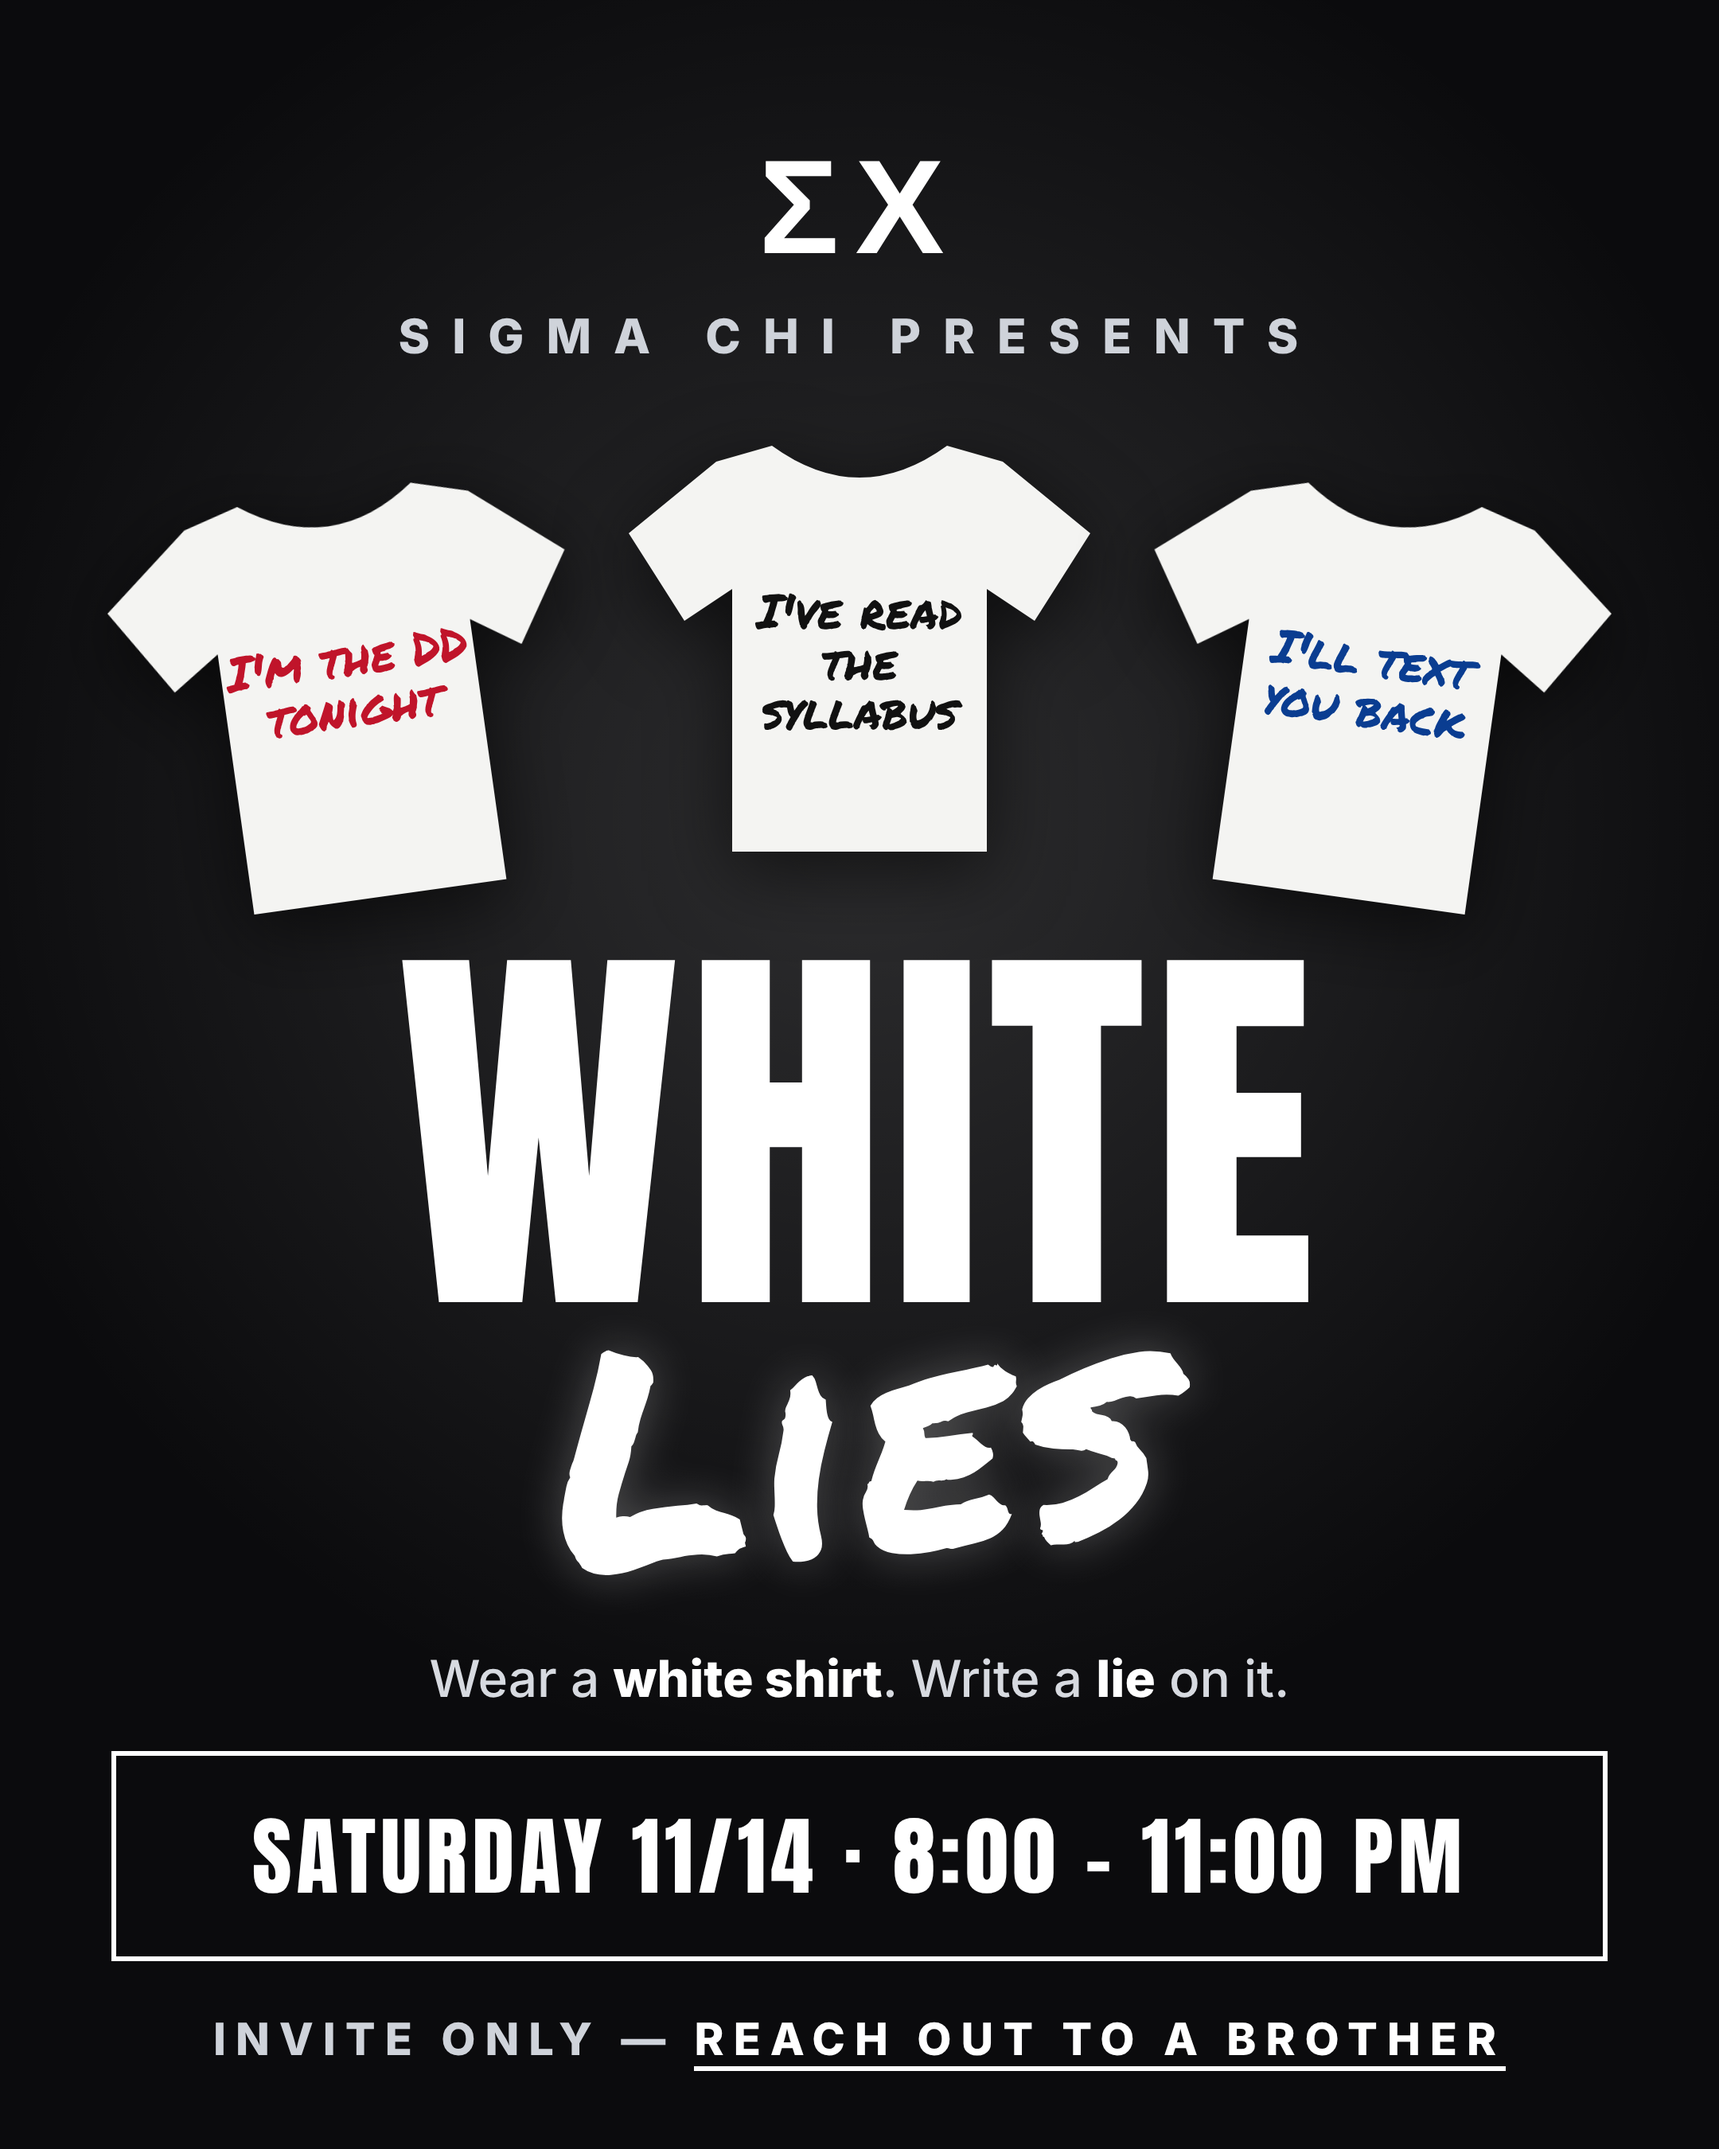
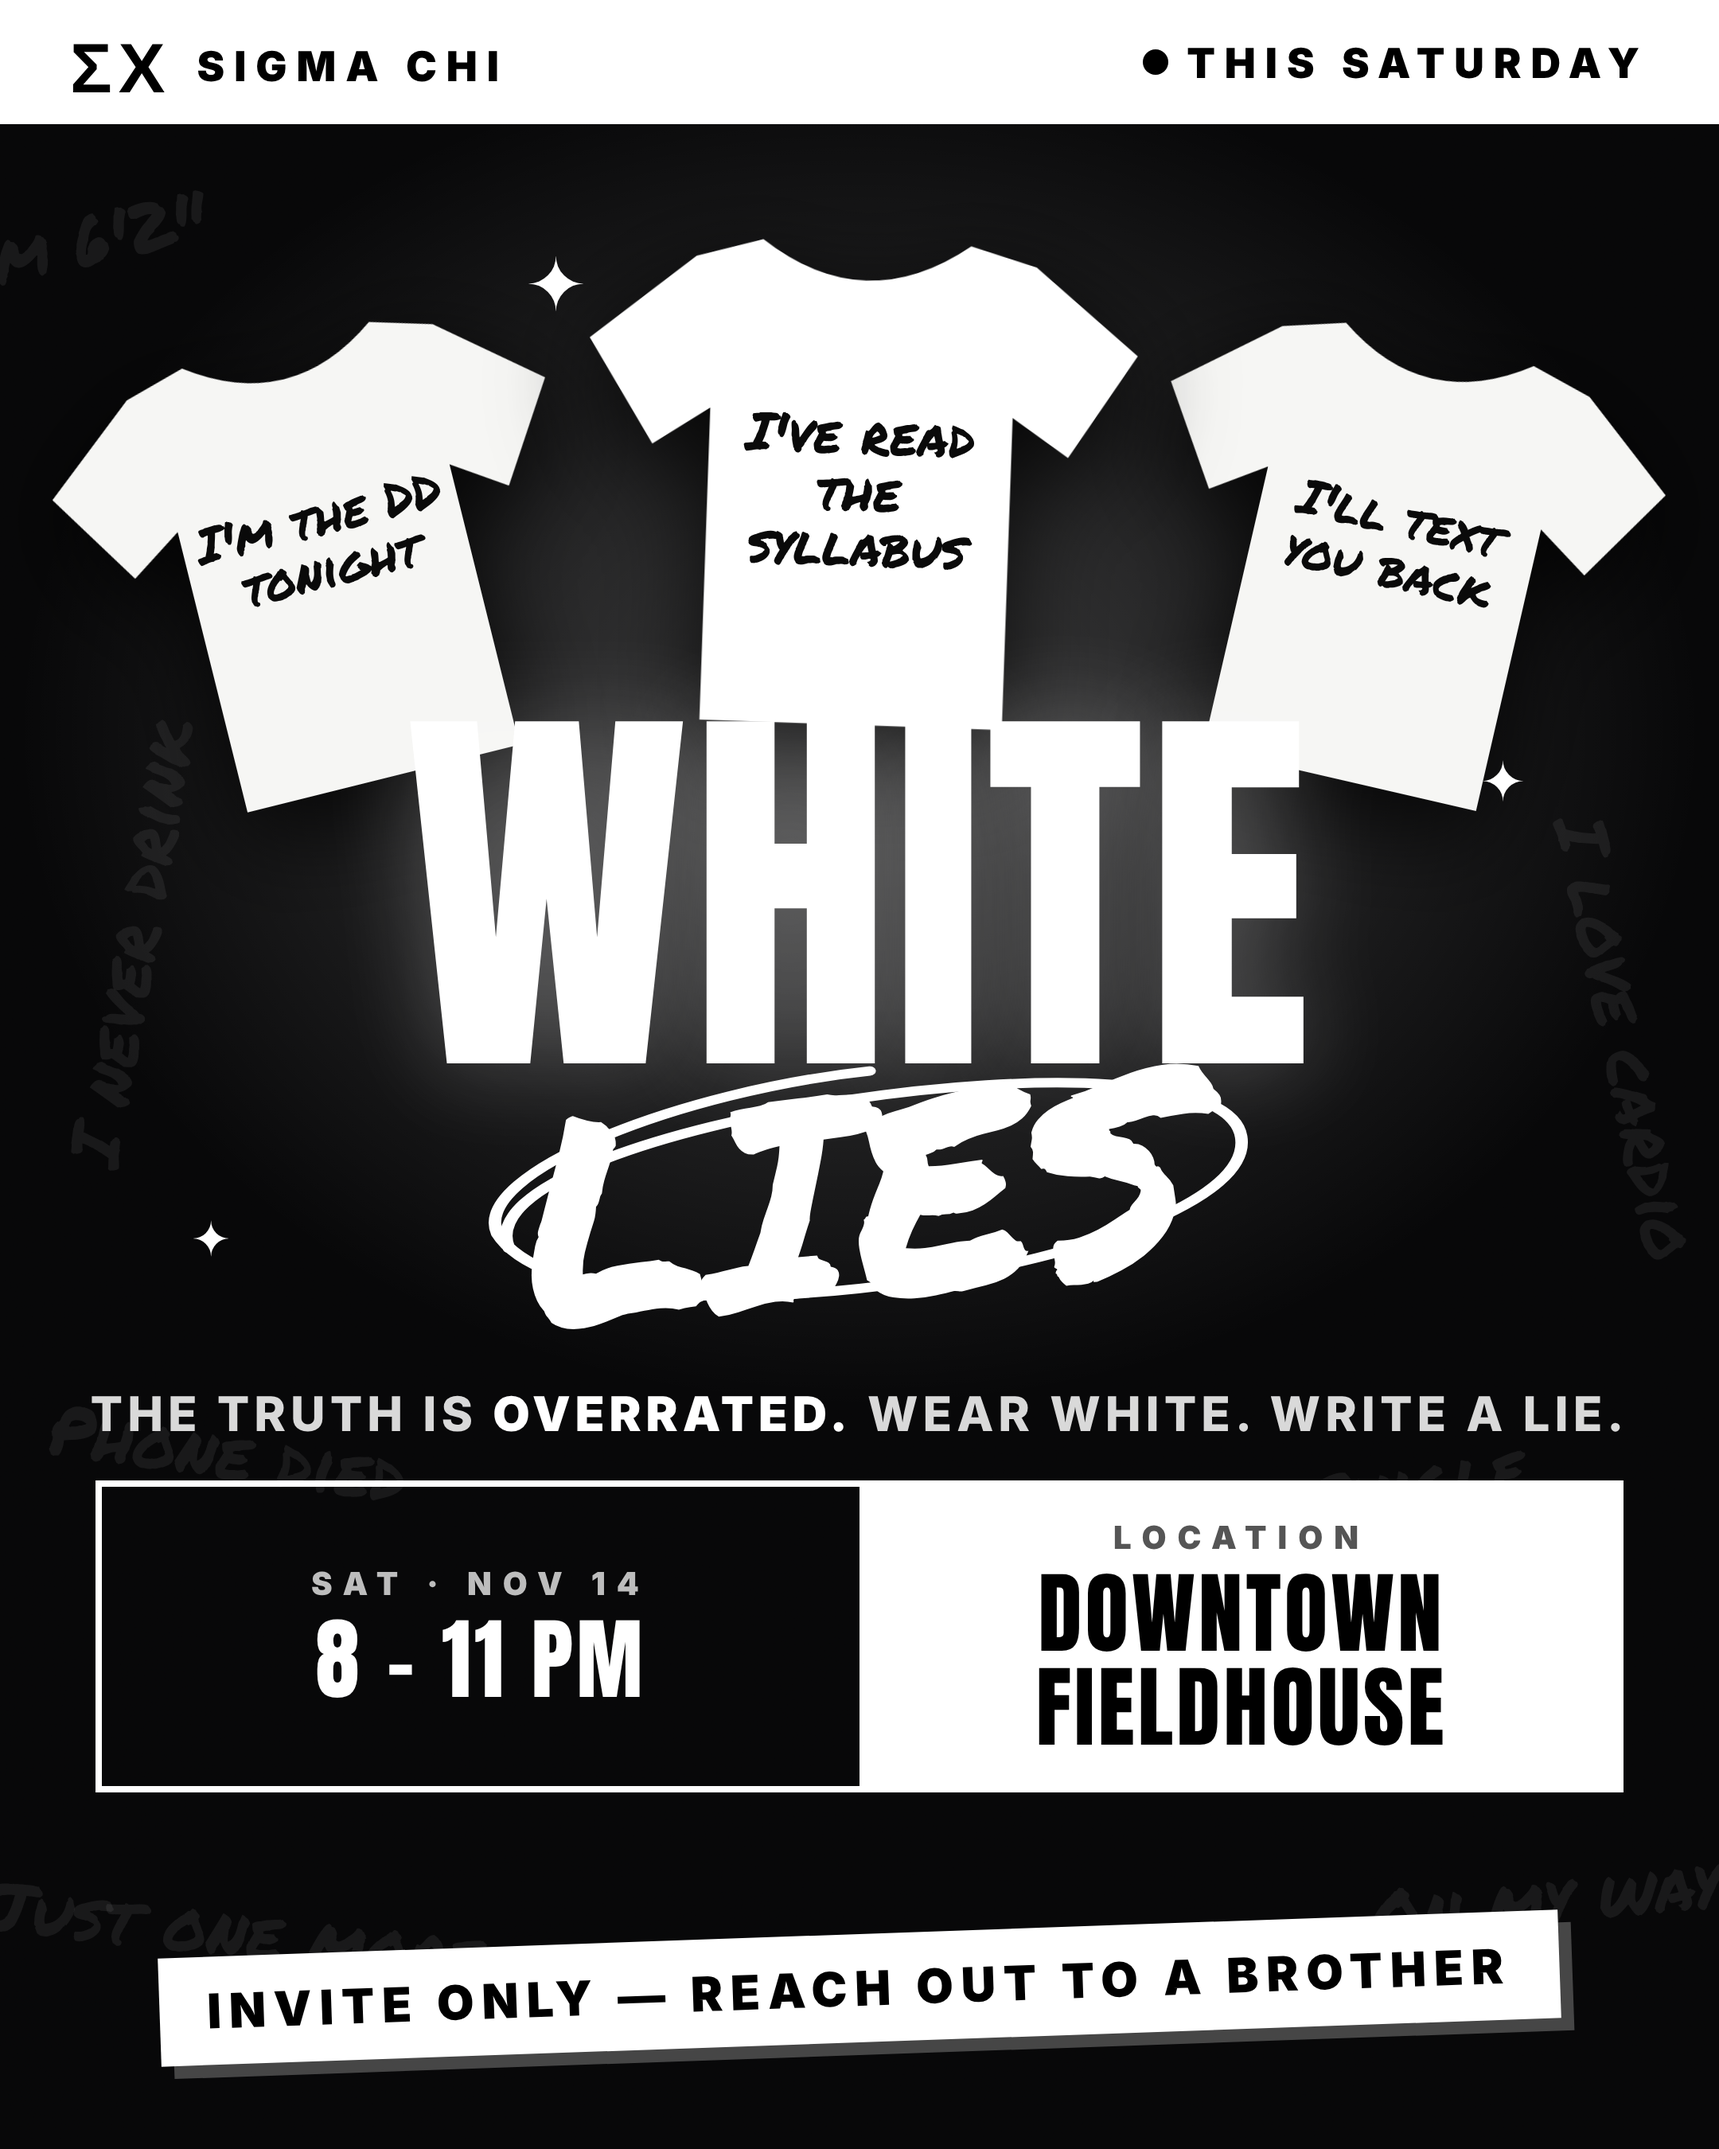
White Lies post: add Downtown FieldHouse location, bolder layout
Claude-Session: https://claude.ai/code/session_017HSKiNMxcjc7LJ3XqkuRRY

diff --git a/white-lies-post/post.html b/white-lies-post/post.html
@@ -1,34 +1,70 @@
 <!doctype html><html><head><meta charset="utf-8">
-<link href="https://fonts.googleapis.com/css2?family=Anton&family=Permanent+Marker&family=Inter:wght@500;800&display=swap" rel="stylesheet">
+<link href="https://fonts.googleapis.com/css2?family=Anton&family=Permanent+Marker&family=Inter:wght@500;800;900&display=swap" rel="stylesheet">
 <style>
 *{margin:0;padding:0;box-sizing:border-box}
-body{width:1080px;height:1350px;background:#0b0b0d;color:#fff;font-family:Inter,Arial,sans-serif;overflow:hidden;position:relative}
-.glow{position:absolute;inset:0;background:radial-gradient(circle at 50% 38%,rgba(255,255,255,.14),transparent 60%)}
-.top{position:absolute;top:60px;width:100%;text-align:center;letter-spacing:14px;font-weight:800;font-size:30px;color:#cfd3da}
-.top .greek{display:block;font-family:Anton,Impact,sans-serif;font-size:84px;letter-spacing:10px;color:#fff;margin-bottom:6px}
-.shirts{position:absolute;top:250px;width:100%;display:flex;justify-content:center;gap:24px}
-.shirt{position:relative;width:300px;height:300px}
-.shirt svg{width:100%;height:100%;filter:drop-shadow(0 12px 24px rgba(0,0,0,.6))}
-.shirt span{position:absolute;top:118px;left:60px;right:60px;text-align:center;font-family:'Permanent Marker',cursive;color:#111;font-size:30px;line-height:1.05}
-.s1{transform:rotate(-8deg) translateY(30px)}.s3{transform:rotate(8deg) translateY(30px)}
-.s1 span{color:#c0142a}.s3 span{color:#0a3d91}
-.title{position:absolute;top:600px;width:100%;text-align:center;font-family:Anton,Impact,sans-serif;font-size:250px;line-height:.9;letter-spacing:4px}
-.title .lies{display:block;font-family:'Permanent Marker',cursive;font-size:190px;color:#fff;transform:rotate(-4deg);margin-top:-10px;text-shadow:0 0 30px rgba(255,255,255,.25)}
-.rule{position:absolute;top:1035px;left:50%;transform:translateX(-50%);font-size:32px;font-weight:500;color:#d7dae0;text-align:center;width:900px}
-.rule b{color:#fff}
-.date{position:absolute;top:1100px;left:70px;right:70px;border:3px solid #fff;padding:22px 0;text-align:center;font-family:Anton,Impact,sans-serif;font-size:54px;letter-spacing:3px;white-space:nowrap}
-.invite{position:absolute;bottom:52px;width:100%;text-align:center;font-weight:800;font-size:28px;letter-spacing:6px;color:#cfd3da}
-.invite em{font-style:normal;color:#fff;border-bottom:3px solid #fff}
+body{width:1080px;height:1350px;background:#070708;color:#fff;font-family:Inter,Arial,sans-serif;overflow:hidden;position:relative}
+.spot{position:absolute;inset:0;background:radial-gradient(ellipse 70% 45% at 50% 34%,rgba(255,255,255,.22),transparent 70%)}
+.grain{position:absolute;inset:0;opacity:.18;mix-blend-mode:overlay}
+.bg-lies{position:absolute;inset:0;font-family:'Permanent Marker',cursive;color:rgba(255,255,255,.07);font-size:44px}
+.bg-lies span{position:absolute;white-space:nowrap}
+.bar{position:absolute;top:0;left:0;right:0;height:78px;background:#fff;color:#000;display:flex;align-items:center;justify-content:space-between;padding:0 44px;font-weight:900;font-size:26px;letter-spacing:6px}
+.bar .gk{font-family:Anton,Impact,sans-serif;font-size:44px;letter-spacing:4px}
+.bar .gk small{font-family:Inter,sans-serif;font-weight:900;font-size:26px;letter-spacing:6px;margin-left:16px;vertical-align:middle}
+.bar .live{display:flex;align-items:center;gap:12px}
+.bar .dot{width:16px;height:16px;border-radius:50%;background:#000}
+.shirts{position:absolute;top:130px;left:0;right:0;height:380px}
+.shirt{position:absolute;width:330px;height:330px}
+.shirt svg{width:100%;height:100%;filter:drop-shadow(0 18px 30px rgba(0,0,0,.8))}
+.shirt span{position:absolute;top:128px;left:72px;right:72px;text-align:center;font-family:'Permanent Marker',cursive;color:#0a0a0a;font-size:31px;line-height:1.05}
+.s1{left:40px;top:50px;transform:rotate(-14deg)}
+.s2{left:375px;top:0;transform:rotate(2deg) scale(1.08)}
+.s3{left:710px;top:50px;transform:rotate(13deg)}
+.title{position:absolute;top:455px;left:0;right:0;text-align:center}
+.white{font-family:Anton,Impact,sans-serif;font-size:250px;line-height:.86;letter-spacing:2px;text-shadow:0 0 60px rgba(255,255,255,.25)}
+.lies{position:relative;display:inline-block;font-family:'Permanent Marker',cursive;font-size:180px;line-height:1;transform:rotate(-5deg);margin-top:-14px}
+.lies svg{position:absolute;left:-50px;top:-10px;width:calc(100% + 100px);height:110%;overflow:visible}
+.tag{position:absolute;top:870px;left:0;right:0;text-align:center;font-weight:800;font-size:30px;letter-spacing:3px;color:#d9d9d9}
+.tag b{color:#fff;font-weight:900}
+.info{position:absolute;top:930px;left:60px;right:60px;display:grid;grid-template-columns:1fr 1fr;border:4px solid #fff}
+.info>div{padding:20px 22px;text-align:center;display:flex;flex-direction:column;justify-content:center}
+.info>div+div{border-left:4px solid #fff}
+.info .k{font-size:20px;font-weight:900;letter-spacing:7px;color:#bdbdbd;margin-bottom:6px}
+.info .v{font-family:Anton,Impact,sans-serif;font-size:56px;line-height:1.05;letter-spacing:2px}
+.info .loc{background:#fff;color:#000}
+.info .loc .k{color:#555}
+.invite{position:absolute;top:1215px;left:0;right:0;text-align:center}
+.invite .t{display:inline-block;background:#fff;color:#000;font-weight:900;font-size:30px;letter-spacing:5px;padding:16px 30px;transform:rotate(-2deg);box-shadow:8px 8px 0 rgba(255,255,255,.25)}
+.invite .s{margin-top:18px;font-size:20px;font-weight:800;letter-spacing:8px;color:#9a9a9a}
+.star{position:absolute;color:#fff;font-size:46px}
 </style></head><body>
-<div class="glow"></div>
-<div class="top"><span class="greek">ΣΧ</span>SIGMA CHI PRESENTS</div>
-<div class="shirts">
- <div class="shirt s1"><svg viewBox="0 0 300 300"><path d="M95 30 L60 40 L5 85 L40 140 L70 120 L70 285 L230 285 L230 120 L260 140 L295 85 L240 40 L205 30 Q150 70 95 30Z" fill="#f4f4f2"/></svg><span>I'm the DD tonight</span></div>
- <div class="shirt s2"><svg viewBox="0 0 300 300"><path d="M95 30 L60 40 L5 85 L40 140 L70 120 L70 285 L230 285 L230 120 L260 140 L295 85 L240 40 L205 30 Q150 70 95 30Z" fill="#f4f4f2"/></svg><span>I've read the syllabus</span></div>
- <div class="shirt s3"><svg viewBox="0 0 300 300"><path d="M95 30 L60 40 L5 85 L40 140 L70 120 L70 285 L230 285 L230 120 L260 140 L295 85 L240 40 L205 30 Q150 70 95 30Z" fill="#f4f4f2"/></svg><span>I'll text you back</span></div>
+<svg class="grain" width="1080" height="1350"><filter id="n"><feTurbulence type="fractalNoise" baseFrequency=".9" numOctaves="3" stitchTiles="stitch"/></filter><rect width="100%" height="100%" filter="url(#n)"/></svg>
+<div class="bg-lies">
+ <span style="top:120px;left:-40px;transform:rotate(-12deg)">I'm 6'2"</span>
+ <span style="top:560px;left:-60px;transform:rotate(-80deg)">I never drink</span>
+ <span style="top:620px;left:880px;transform:rotate(78deg)">I love cardio</span>
+ <span style="top:900px;left:820px;transform:rotate(-10deg)">Single</span>
+ <span style="top:880px;left:30px;transform:rotate(8deg)">Phone died</span>
+ <span style="top:1160px;left:860px;transform:rotate(-6deg)">On my way</span>
+ <span style="top:1180px;left:-10px;transform:rotate(6deg)">Just one more</span>
 </div>
-<div class="title">WHITE<span class="lies">Lies</span></div>
-<div class="rule">Wear a <b>white shirt</b>. Write a <b>lie</b> on it.</div>
-<div class="date">SATURDAY 11/14 · 8:00 – 11:00 PM</div>
-<div class="invite">INVITE ONLY — <em>REACH OUT TO A BROTHER</em></div>
+<div class="spot"></div>
+<div class="bar"><div class="gk">ΣΧ<small>SIGMA CHI</small></div><div class="live"><span class="dot"></span>THIS SATURDAY</div></div>
+<div class="shirts">
+ <div class="shirt s1"><svg viewBox="0 0 300 300"><path d="M95 30 L60 40 L5 85 L40 140 L70 120 L70 285 L230 285 L230 120 L260 140 L295 85 L240 40 L205 30 Q150 70 95 30Z" fill="#f6f6f4"/></svg><span>I'm the DD tonight</span></div>
+ <div class="shirt s3"><svg viewBox="0 0 300 300"><path d="M95 30 L60 40 L5 85 L40 140 L70 120 L70 285 L230 285 L230 120 L260 140 L295 85 L240 40 L205 30 Q150 70 95 30Z" fill="#f6f6f4"/></svg><span>I'll text you back</span></div>
+ <div class="shirt s2"><svg viewBox="0 0 300 300"><path d="M95 30 L60 40 L5 85 L40 140 L70 120 L70 285 L230 285 L230 120 L260 140 L295 85 L240 40 L205 30 Q150 70 95 30Z" fill="#fff"/></svg><span>I've read the syllabus</span></div>
+</div>
+<span class="star" style="top:150px;left:330px">✦</span>
+<span class="star" style="top:470px;left:930px;font-size:34px">✦</span>
+<span class="star" style="top:760px;left:120px;font-size:30px">✦</span>
+<div class="title">
+ <div class="white">WHITE</div>
+ <div class="lies">LIES<svg viewBox="0 0 400 200" preserveAspectRatio="none"><path d="M30 120 C 10 40, 380 10, 385 90 C 390 170, 60 200, 25 110 C 15 70, 120 30, 210 28" fill="none" stroke="#fff" stroke-width="6" stroke-linecap="round"/></svg></div>
+</div>
+<div class="tag">THE TRUTH IS <b>OVERRATED.</b> WEAR WHITE. WRITE A LIE.</div>
+<div class="info">
+ <div><div class="k">SAT · NOV 14</div><div class="v">8 – 11 PM</div></div>
+ <div class="loc"><div class="k">LOCATION</div><div class="v">DOWNTOWN<br>FIELDHOUSE</div></div>
+</div>
+<div class="invite"><div class="t">INVITE ONLY — REACH OUT TO A BROTHER</div></div>
 </body></html>
